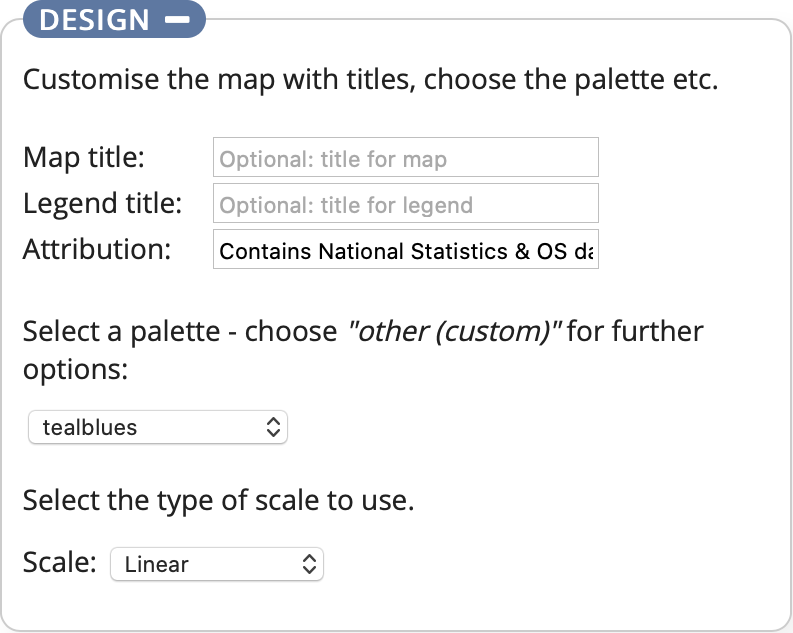
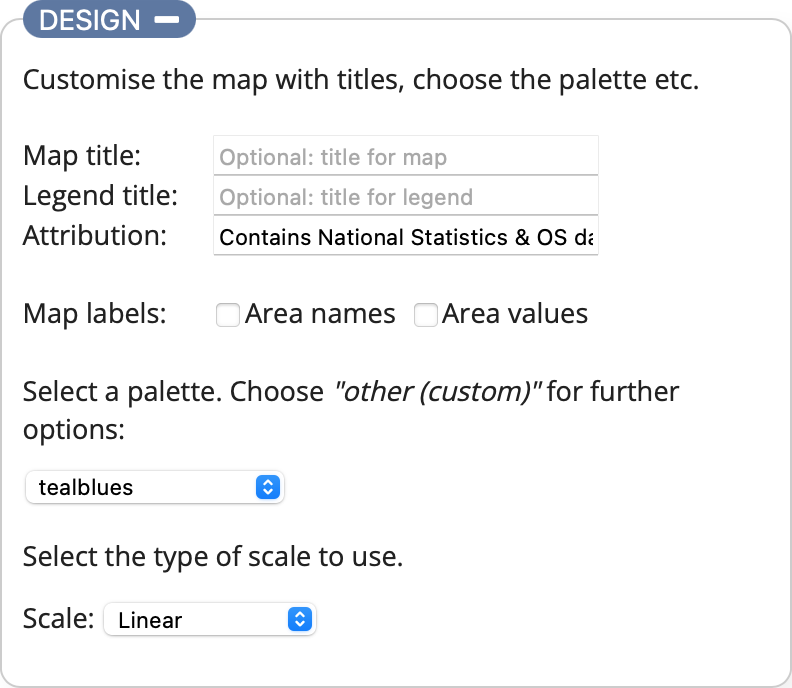
Updated the documentation to explain the new map labels feature. Also added an accessibility description to the map labels UI to help improve understanding of its function.

diff --git a/documentation.html b/documentation.html
@@ -181,10 +181,10 @@
                     You can now provide your geography in a similar way to the data: choosing a local file from your device or entering either the <abbr title="Uniform Resource Locator">URL</abbr> (must start with https://) of a geography file or the contents of the file itself into the text box provided.
                 </p>
                 <p>
-                    The geography must be valid <abbr title="Geospatial data in JavaScript Object Notation"><a href="https://geojson.org" target="_blank">GeoJSON</a></abbr>, an open-source spatial format, and each &quot;<strong>Feature</strong>&quot; must contain the key &quot;<strong>area_code</strong>&quot; to identify it. This key is used to match the features in the spatial geography to the data. The only exception to this is if you are using a custom geography which doesn't have area codes defined for it, such as Trafford Localities. In this case both the data and the geography must contain the field &quot;<strong>area_name</strong>&quot;.  The &quot;<strong>area_name</strong>&quot; key is also used as a label within the tooltip displaying the data value associated to an area when you select it on the map.
+                    The geography must be valid <abbr title="Geospatial data in JavaScript Object Notation"><a href="https://geojson.org" target="_blank">GeoJSON</a></abbr>, an open-source spatial format, and each &quot;<strong>Feature</strong>&quot; must contain the field/property &quot;<strong>area_code</strong>&quot; to identify it. This field is used to match the features in the spatial geography to the data. The only exception to this is if you are using a custom geography which doesn't have area codes defined for it, such as Trafford Localities. In this case both the data and the geography must contain the field &quot;<strong>area_name</strong>&quot;.  This field, along with the data values, are also used for map labels. There is an interactive tooltip-style label which displays the name and data value associated to an area when you select/hover over it on the map, and additionally in the <a href="#design">Design</a> section you have the option to add area names and/or values as permanent labels on the map.
                 </p>
                 <p>
-                    The following example from a spatial file describing the local authority boundaries within Greater Manchester demonstrates the use of the <strong>area_code</strong> key:
+                    The following example from a spatial file describing the local authority boundaries within Greater Manchester demonstrates the use of the <strong>area_code</strong> field:
                 </p>
                 <code class="code noFloat" aria-label="Example code of a GeoJSON geography file">
                     <pre>
@@ -209,7 +209,13 @@
                 <a name="design"></a><h2>Design</h2>
                 <p>
                     <img src="docs_images/design.png" width="300" alt="Screenshot of the design section expanded." class="screenshot" style="float: right; margin-left: 20px; padding: 10px;"/>
-                    The final section is where you specify how your finished map will look, allowing you to add titles, attribution, select the palette and also choose the scale used to assign the palette to the data. The palette options provided in the select list are a subset of the Vega <a href="https://vega.github.io/vega/docs/schemes/#seq-single-hue" target="_blank">sequential scheme names</a>. You can use any palette listed via the link within Vega-Lite, but Choroplether will only allow sequential palettes (single-hue and multi-hue) to be used. This is because sequential palettes are the most appropriate types to use for a choropleth map displaying differences in continuous data (e.g. population) rather than categorical data. If the palette you want is not listed, you can choose the <strong>Other (custom)</strong> option which will then display a text box for you to type in the scheme name. If you require a non-sequential palette you can edit the visualisation within the Vega Editor, (the <a href="#exportedit">Exporting and further editing</a> section has more information about this).
+                    The final section is where you specify how your finished map will look. There are options allowing you to add titles, attribution, map labels, select the palette and also choose the scale used to assign the palette to the data.
+                </p>
+                <p>
+                    Map labels are useful when you want to use the visualisation as a static image in a document etc. You can choose to have labels for the just the area names, just the values, or both by selecting the relevant checkboxes. They work best with geographies containing around 10 or fewer areas and are limited in length, otherwise they will overlap too much. It is possible to make the map area larger if there are many labels, and/or increase the length of the labels, however you will need to amend the Vega-Lite code in the editor as described in the <a href="#exportedit">Exporting and further editing</a> section.
+                </p>
+                <p>
+                    The palette options provided in the select list are a subset of the Vega <a href="https://vega.github.io/vega/docs/schemes/#seq-single-hue" target="_blank">sequential scheme names</a>. You can use any palette listed via the link within Vega-Lite, but Choroplether will only allow sequential palettes (single-hue and multi-hue) to be used. This is because sequential palettes are the most appropriate types to use for a choropleth map displaying differences in continuous data (e.g. population) rather than categorical data. If the palette you want is not listed, you can choose the <strong>Other (custom)</strong> option which will then display a text box for you to type in the scheme name. If you require a non-sequential palette you can edit the visualisation within the Vega Editor, (the <a href="#exportedit">Exporting and further editing</a> section has more information about this).
                 </p>
                 <p>
                     The scale determines how the colours are assigned to the map based on the data being displayed.  There are 3 options: <strong>Linear</strong>, <strong>Quantile</strong> and <strong>Equal intervals</strong>. An additional <strong>Intervals</strong> selection list appears except when the <strong>Linear</strong> option is chosen.

diff --git a/index.html b/index.html
@@ -250,7 +250,7 @@
                                 <br />
                                 <label for="vizAttribution" class="longInputBoxLabel">Attribution:</label><input type="text" id="vizAttribution" name="vizAttribution" class="longInputBox" placeholder="Required for OS & ONS products" onchange="updateAttribution(this.value)"/>
                                 <br /><br />
-                                <span class="longInputBoxLabel">Map labels:</span><input type="checkbox" id="vizAreaLabels" name="vizAreaLabels" onchange="mapLabels()"/><label for="vizAreaLabels">Area names</label> | <input type="checkbox" id="vizValueLabels" name="vizValueLabels" onchange="mapLabels()"/><label for="vizValueLabels">Area values</label>
+                                <span aria-label="Map labels: add or remove labels for the area names and values on the map"><span class="longInputBoxLabel" aria-hidden="true">Map labels:</span><input type="checkbox" id="vizAreaLabels" name="vizAreaLabels" onchange="mapLabels()"/><label for="vizAreaLabels">Area names</label>&nbsp;&nbsp;<input type="checkbox" id="vizValueLabels" name="vizValueLabels" onchange="mapLabels()"/><label for="vizValueLabels">Area values</label></span>
                                 <br /><br />
                                 <label for="paletteList">Select a palette</label>. Choose <span style="font-style: italic;">&quot;other (custom)&quot;</span> for further options:
                                 <br />
